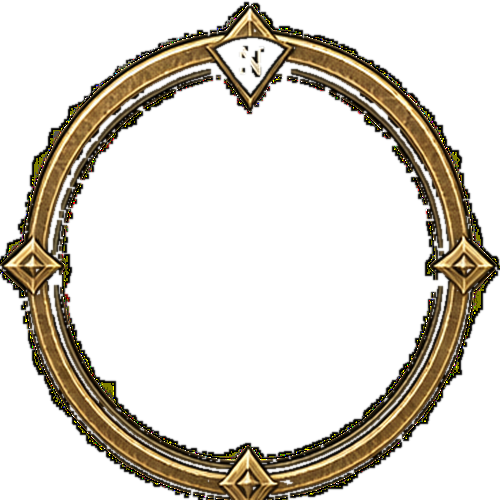
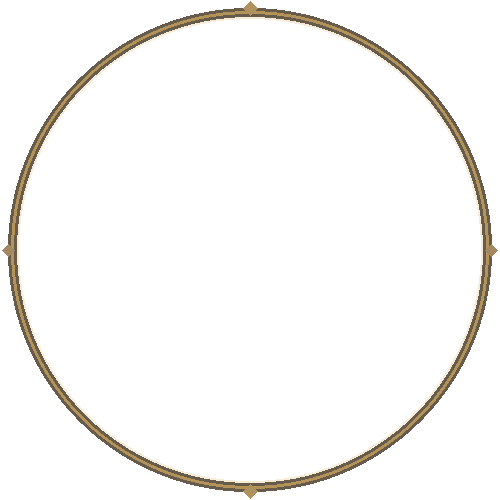
Slim remaining Kit-v5 modal and minimap chrome

diff --git a/GameClient/ArtSource/UI/Kit-v5/slim/build_remaining.py b/GameClient/ArtSource/UI/Kit-v5/slim/build_remaining.py
@@ -1,0 +1,164 @@
+"""Build the remaining slim v5 chrome from approved concept crops.
+
+Run from anywhere: py -3 GameClient/ArtSource/UI/Kit-v5/slim/build_remaining.py
+The deliberately simple geometry keeps nine-slice edges straight and repeatable.
+"""
+import json
+from pathlib import Path
+from PIL import Image, ImageDraw
+
+HERE = Path(__file__).resolve().parent
+KIT = HERE.parent
+V5 = HERE.parents[4] / 'docs/Game-Design/concept-art/UI/v5'
+OUT = HERE.parents[4] / 'Artifacts/slim2-vs-concept.png'
+
+# Boxes are in the approved concepts' 1672 x 941 coordinate space.
+CROPS = {
+    'modal_frame': ('market-board', (213, 92, 1462, 795)),
+    'detail_card_frame': ('market-board', (1094, 251, 1435, 771)),
+    'button_primary_brass': ('trade', (840, 730, 1207, 792)),
+    'hold_confirm_ring': ('trade', (858, 737, 904, 784)),
+    'minimap_ring': ('gameplay-hud', (1399, 17, 1652, 253)),
+    'minimap_footer': ('gameplay-hud', (1436, 246, 1617, 277)),
+}
+MARGINS = {
+    'modal_frame': [28, 28, 28, 28],
+    'detail_card_frame': [24, 24, 24, 24],
+    'button_primary_brass': [28, 20, 28, 20],
+    'minimap_footer': [20, 18, 20, 18],
+}
+BRASS = (177, 143, 82, 245)
+HIGHLIGHT = (218, 184, 115, 205)
+LOWLIGHT = (70, 57, 37, 210)
+NAVY = (13, 22, 27, 210)
+
+
+def polygon(w, h, inset, chamfer):
+    l, t, r, b = inset, inset, w - 1 - inset, h - 1 - inset
+    c = chamfer
+    return [(l+c,t), (r-c,t), (r,t+c), (r,b-c), (r-c,b),
+            (l+c,b), (l,b-c), (l,t+c)]
+
+
+def panel(size, margin, detail=False):
+    w, h = size
+    im = Image.new('RGBA', size)
+    d = ImageDraw.Draw(im)
+    p = polygon(w, h, 5, 13 if detail else 16)
+    d.polygon(p, fill=NAVY)
+    d.line(p+[p[0]], fill=LOWLIGHT, width=6, joint='curve')
+    d.line(p+[p[0]], fill=BRASS, width=3, joint='curve')
+    q = polygon(w, h, 11, 10 if detail else 13)
+    d.line(q+[q[0]], fill=(209, 177, 109, 64), width=1)
+    # Restrained corner ticks from the market board concept; fit inside slice caps.
+    tick = min(margin[0]-12, 13)
+    for x, sx in ((19,1),(w-20,-1)):
+        for y, sy in ((19,1),(h-20,-1)):
+            d.line([(x,y+sy*tick),(x,y),(x+sx*tick,y)], fill=HIGHLIGHT, width=2)
+    if not detail:
+        cx = w//2
+        d.line([(cx-8,6),(cx,1),(cx+8,6),(cx,11),(cx-8,6)], fill=HIGHLIGHT, width=2)
+    return im
+
+
+def button(size):
+    w, h = size
+    im = Image.new('RGBA', size)
+    d = ImageDraw.Draw(im)
+    p = polygon(w,h,4,18)
+    d.polygon(p, fill=(73, 58, 37, 240))
+    # A darker, flat label field gives ivory text clear contrast at runtime.
+    inner = polygon(w,h,11,13)
+    d.polygon(inner, fill=(82, 65, 39, 247))
+    d.line(p+[p[0]], fill=LOWLIGHT, width=7, joint='curve')
+    d.line(p+[p[0]], fill=BRASS, width=4, joint='curve')
+    d.line(inner+[inner[0]], fill=(222, 188, 117, 130), width=2)
+    d.line([(35,15),(w-36,15)], fill=(239, 204, 137, 43), width=3)
+    return im
+
+
+def ring(size, minimap=False):
+    w,h=size
+    im=Image.new('RGBA',size)
+    d=ImageDraw.Draw(im)
+    pad=8 if minimap else 5
+    box=(pad,pad,w-pad-1,h-pad-1)
+    if minimap:
+        # A clear aperture lets the map render target show through.
+        d.ellipse(box, outline=LOWLIGHT, width=9)
+        d.ellipse((pad+3,pad+3,w-pad-4,h-pad-4), outline=BRASS, width=3)
+        d.ellipse((pad+9,pad+9,w-pad-10,h-pad-10), outline=(223,190,120,75), width=2)
+        cx=w//2
+        for y,sy in ((pad,-1),(h-pad-1,1)):
+            d.polygon([(cx-7,y),(cx,y+sy*7),(cx+7,y),(cx,y-sy*7)], fill=(166,131,73,225))
+        for x,sx in ((pad,-1),(w-pad-1,1)):
+            d.polygon([(x,h//2-6),(x+sx*6,h//2),(x,h//2+6),(x-sx*6,h//2)], fill=(144,111,64,210))
+    else:
+        d.ellipse(box, fill=(14,22,26,225), outline=BRASS, width=3)
+        d.ellipse((pad+6,pad+6,w-pad-7,h-pad-7), outline=(202,170,105,115), width=2)
+        # Base track only: runtime draws the actual hold progress.
+    return im
+
+
+def footer(size):
+    w,h=size
+    im=Image.new('RGBA',size)
+    d=ImageDraw.Draw(im)
+    p=polygon(w,h,3,12)
+    d.polygon(p,fill=(12,20,25,226))
+    d.line(p+[p[0]],fill=BRASS,width=3)
+    q=polygon(w,h,8,8)
+    d.line(q+[q[0]],fill=(211,179,111,65),width=1)
+    return im
+
+
+def preview(crops, built):
+    cell_w, cell_h = 570, 280
+    sheet=Image.new('RGB',(cell_w*2,cell_h*len(built)),(31,37,40))
+    d=ImageDraw.Draw(sheet)
+    for row,(name,im) in enumerate(built.items()):
+        for col,source in enumerate((crops[name],im)):
+            src=source.convert('RGBA')
+            src.thumbnail((cell_w-28,cell_h-46),Image.Resampling.LANCZOS)
+            x=col*cell_w+(cell_w-src.width)//2
+            y=row*cell_h+33+(cell_h-46-src.height)//2
+            sheet.paste(src,(x,y),src)
+        d.text((12,row*cell_h+8),name+' — concept crop',fill=(235,231,217))
+        d.text((cell_w+12,row*cell_h+8),name+' — slim 2x PNG',fill=(235,231,217))
+    OUT.parent.mkdir(exist_ok=True)
+    sheet.save(OUT)
+
+
+def main():
+    data=json.loads((KIT/'kit.json').read_text(encoding='utf-8'))
+    crops={}
+    built={}
+    for name,(concept,box) in CROPS.items():
+        source=Image.open(V5/(concept+'.png')).convert('RGB')
+        scale=source.width/1672
+        crop=source.crop(tuple(round(v*scale) for v in box))
+        crops[name]=crop
+        path=KIT/data['pieces'][name]['file']
+        size=Image.open(path).size
+        if name in ('modal_frame','detail_card_frame'):
+            im=panel(size,MARGINS[name],name=='detail_card_frame')
+        elif name=='button_primary_brass':
+            im=button(size)
+        elif name=='hold_confirm_ring':
+            im=ring(size)
+        elif name=='minimap_ring':
+            im=ring(size,True)
+        else:
+            im=footer(size)
+        im.save(path)
+        built[name]=im
+        if name in MARGINS:
+            data['pieces'][name]['nine_slice_px']=MARGINS[name]
+        data['pieces'][name]['intended_1080p_px']=[size[0]//2,size[1]//2]
+    (KIT/'kit.json').write_bytes((json.dumps(data,indent=2,ensure_ascii=False)+'\n').replace('\n','\r\n').encode('utf-8'))
+    preview(crops,built)
+    print('Built',', '.join(built),'and',OUT)
+
+
+if __name__=='__main__':
+    main()

diff --git a/GameClient/ArtSource/UI/Kit-v5/README.md b/GameClient/ArtSource/UI/Kit-v5/README.md
@@ -2,6 +2,8 @@
 
 Production art at 2× 1920×1080 UI design size. `kit.json` is the authoritative size, 9-slice and usage manifest. PNGs are straight RGBA; 9-slice margins are stored in output pixels. Use 3-slice semantics for the hex-ended bars and buttons. Text, counts, input mapping and bar percentages remain runtime data. `structural-source.png` is the gpt-image atlas used by `build_structures.py`; `preview.py` rebuilds the contact sheet and a 1920×1080 gameplay HUD study. Run both with Python 3.12 and Pillow from the repository root.
 
+The remaining modal, detail card, primary button, hold ring, minimap ring and footer use `slim/build_remaining.py` for deterministic thin-line geometry at their original 2× sizes. Its approved concept crops and rendered outputs are compared in `Artifacts/slim2-vs-concept.png`. The hold ring supplies the empty track; runtime progress remains separate. The minimap mask remains the map aperture.
+
 The structural cut ends at atlas y=248, outside the panel's lower alpha fringe. `build_structures.py` resizes in premultiplied RGBA, erodes the source alpha fringe by one pixel, clamps near-transparent backdrop alpha, and clears RGB under zero alpha. It preserves output dimensions and existing `kit.json` margins. After rebuilding structures and bar layers, run `py -3 GameClient/ArtSource/UI/Kit-v5/scan_borders.py`; it fails on visible chroma-key red/green speckles in the outer six pixels of every PNG. Rebuild both previews with `preview.py`.
 
 ## Dynamic bar layers
